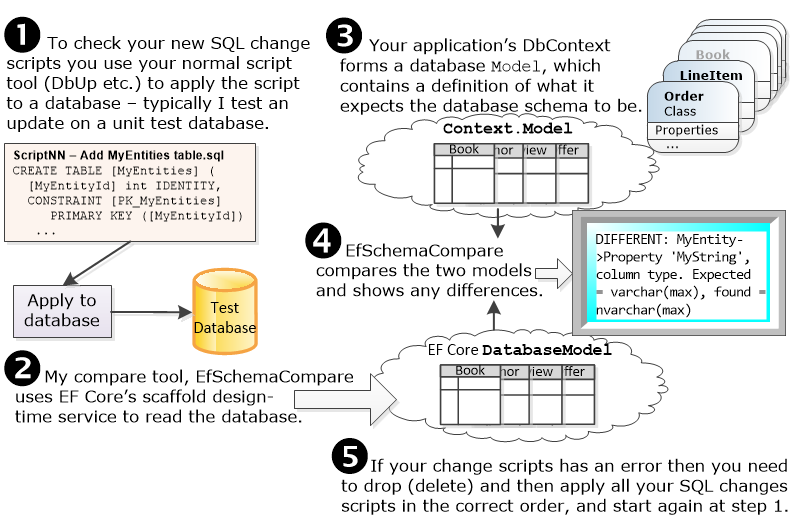
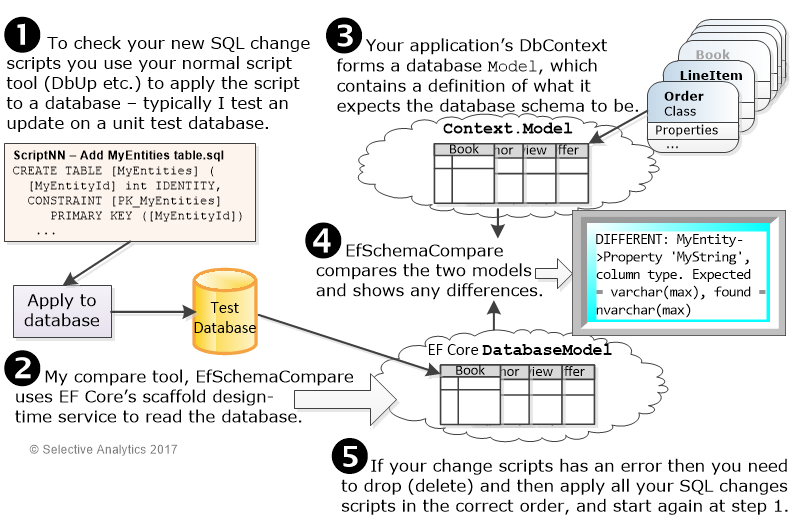
Added comments and improved diagram

diff --git a/Test/UnitTests/EfSchemaCompare/ComparerBooks.cs b/Test/UnitTests/EfSchemaCompare/ComparerBooks.cs
@@ -33,12 +33,18 @@ namespace Test.UnitTests.EfSchemaCompare
             //SETUP
             using (var context = new BookContext(_options))
             {
+                context.Database.EnsureCreated();
                 var comparer = new CompareEfSql();
 
                 //ATTEMPT
+                //This will compare EF Core model of the database 
+                //with the database that the context's connection points to
                 var hasErrors = comparer.CompareEfWithDb(context);
 
                 //VERIFY
+                //The CompareEfWithDb method returns true if there were errors. 
+                //The comparer.GetAllErrors property returns a string
+                //where each error is on a separate line
                 hasErrors.ShouldBeFalse(comparer.GetAllErrors);
             }
         }
@@ -52,10 +58,13 @@ namespace Test.UnitTests.EfSchemaCompare
                 var comparer = new CompareEfSql();
 
                 //ATTEMPT
-                var hasErrors = comparer.CompareEfWithDb(_connectionString, context);
+                using (new TimeThings(_output, "Time to compare simple database"))
+                {
+                    var hasErrors = comparer.CompareEfWithDb(_connectionString, context);
 
-                //VERIFY
-                hasErrors.ShouldBeFalse(comparer.GetAllErrors);
+                    //VERIFY
+                    hasErrors.ShouldBeFalse(comparer.GetAllErrors);
+                }
             }
         }
 
